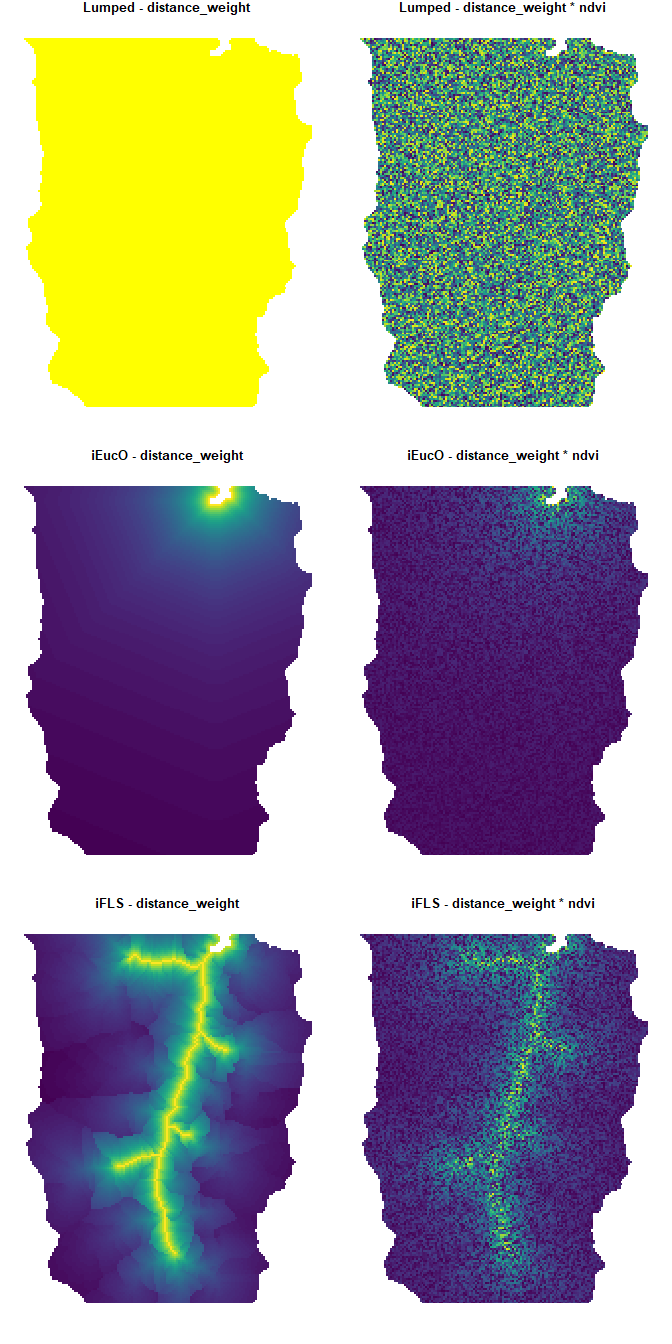
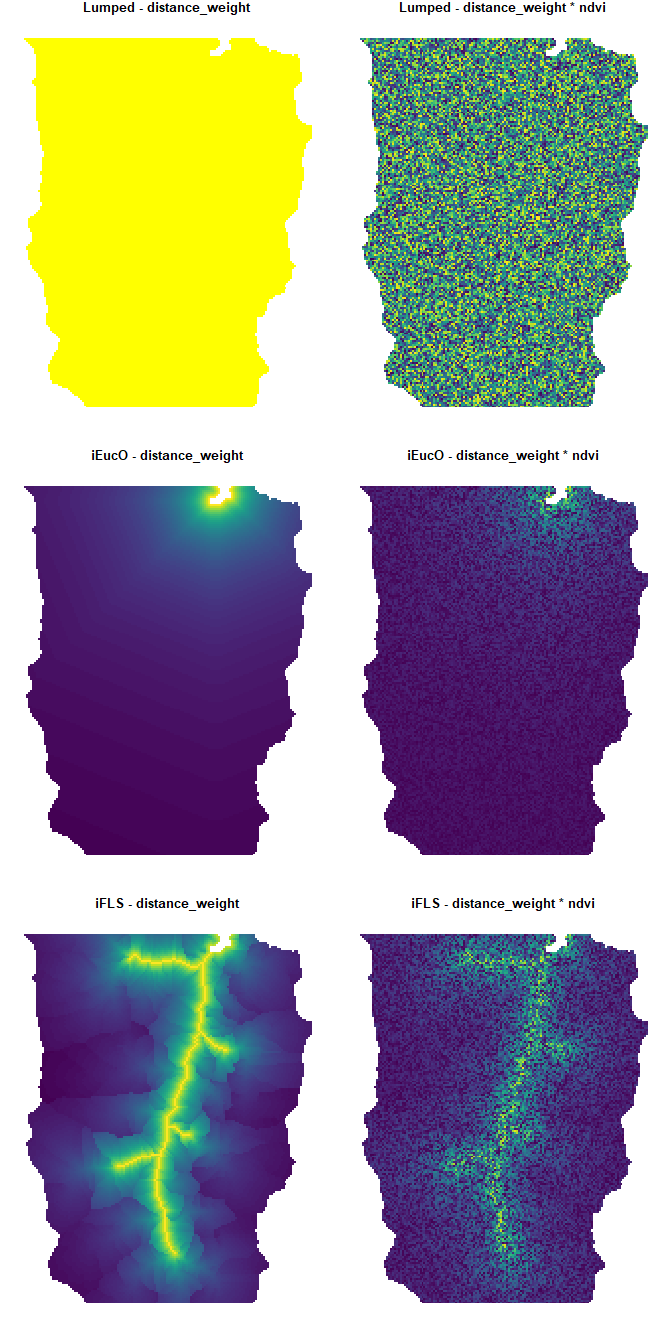
Attempts to fix README 3.5 link

Changed region(s): [[0.5312, 0.0312, 0.9688, 0.3125], [0.5312, 0.6875, 0.9688, 0.9688], [0.5625, 0.3438, 0.9688, 0.5625]]

diff --git a/README.md b/README.md
@@ -16,9 +16,8 @@ hydroweight: Inverse distance-weighted rasters and landscape attributes
       - [3.3 Run `hydroweight()`](#33-run-hydroweight)
       - [3.4 Run `hydroweight()` across a set of
         sites](#34-run-hydroweight-across-a-set-of-sites)
-      - [3.5 Using `hydroweight()` iFLO output as subsequent catchment
-        boundaries for
-        `hydroweight_attributes()`](#35-using-hydroweight-iFLO-output-as-subsequent-catchment-boundaries-for-hydroweight_attributes)
+      - [3.5 Using `iFLO` output as catchment boundaries for
+        `hydroweight_attributes()`](#35-using-iFLO-output-as-catchment-boundaries-for-hydroweight_attributes)
   - [4.0 Inverse distance-weighted rasters using
     `hydroweight_attributes()`](#40-inverse-distance-weighted-attributes-using-hydroweight_attributes)
       - [4.1 Using a numeric raster layer of
@@ -167,7 +166,7 @@ wbt_breach_depressions(
   dem = file.path(hydroweight_dir, "toy_dem.tif"),
   output = file.path(hydroweight_dir, "toy_dem_breached.tif")
 )
-#> [1] "breach_depressions - Elapsed Time (excluding I/O): 0.9s"
+#> [1] "breach_depressions - Elapsed Time (excluding I/O): 0.7s"
 
 ## Generate d8 flow pointer (note: other flow directions are available)
 wbt_d8_pointer(
@@ -182,7 +181,7 @@ wbt_d8_flow_accumulation(
   output = file.path(hydroweight_dir, "toy_dem_breached_accum.tif"),
   out_type = "cells"
 )
-#> [1] "d8_flow_accumulation - Elapsed Time (excluding I/O): 0.65s"
+#> [1] "d8_flow_accumulation - Elapsed Time (excluding I/O): 0.66s"
 
 ## Generate streams with a stream initiation threshold of 2000 cells
 wbt_extract_streams(
@@ -229,7 +228,7 @@ wbt_watershed(
   pour_pts = file.path(hydroweight_dir, "tg_O.tif"),
   output = file.path(hydroweight_dir, "tg_O_catchment.tif")
 )
-#> [1] "watershed - Elapsed Time (excluding I/O): 0.8s"
+#> [1] "watershed - Elapsed Time (excluding I/O): 0.7s"
 
 tg_O_catchment <- raster(file.path(hydroweight_dir, "tg_O_catchment.tif"))
 tg_O_catchment <- rasterToPolygons(tg_O_catchment, dissolve = TRUE)
@@ -340,8 +339,8 @@ hw_test_1 <- hydroweight::hydroweight(
   ),
   inv_function = myinv
 )
-#> Preparing hydroweight layers @ 2021-04-14 16:14:09
-#> Running distance-weighting @ 2021-04-14 16:14:12
+#> Preparing hydroweight layers @ 2021-04-23 10:34:28
+#> Running distance-weighting @ 2021-04-23 10:34:30
 
 ## Resultant structure:
 # length(hw_test_1) ## 1 set of targets and 7 distance-weighted rasters
@@ -512,15 +511,15 @@ hw_test_5 <- foreach(xx = 1:nrow(tg_O_multi), .errorhandling = "pass") %do% {
 
   return(hw_test_xx)
 }
-#> Running hydroweight for site 1 at 2021-04-14 16:14:30
-#> Preparing hydroweight layers @ 2021-04-14 16:14:30
-#> Running distance-weighting @ 2021-04-14 16:14:32
-#> Running hydroweight for site 2 at 2021-04-14 16:14:36
-#> Preparing hydroweight layers @ 2021-04-14 16:14:36
-#> Running distance-weighting @ 2021-04-14 16:14:39
-#> Running hydroweight for site 3 at 2021-04-14 16:14:43
-#> Preparing hydroweight layers @ 2021-04-14 16:14:43
-#> Running distance-weighting @ 2021-04-14 16:14:45
+#> Running hydroweight for site 1 at 2021-04-23 10:34:49
+#> Preparing hydroweight layers @ 2021-04-23 10:34:49
+#> Running distance-weighting @ 2021-04-23 10:34:51
+#> Running hydroweight for site 2 at 2021-04-23 10:34:55
+#> Preparing hydroweight layers @ 2021-04-23 10:34:55
+#> Running distance-weighting @ 2021-04-23 10:34:57
+#> Running hydroweight for site 3 at 2021-04-23 10:35:01
+#> Preparing hydroweight layers @ 2021-04-23 10:35:01
+#> Running distance-weighting @ 2021-04-23 10:35:03
 
 ## Resultant structure:
 ## length(hw_test_5) # 3 sites
@@ -572,7 +571,7 @@ plot(hw_test_5[[3]][[3]], axes = F, legend = F, box = FALSE, col = viridis(101),
 
 [Back to top](#contents)
 
-### 3.5 Using `hydroweight()` iFLO outputs as subsequent catchment boundaries for `hydroweight_attributes()`
+### 3.5 Using `iFLO` output as catchment boundaries for `hydroweight_attributes()`
 
 An advantage of using `hydroweight()` is that an iFLO-derived product
 can be used as a catchment boundary in subsequent operations. iFLO uses
@@ -1082,31 +1081,35 @@ results_agg <- lapply(results, function(x) {
 })
 results_agg <- Reduce(merge, results_agg)
 names(results_agg)
-#>  [1] "Lake"                      "lumped_lulc_prop_var_1_6" 
-#>  [3] "lumped_lulc_prop_var_1_8"  "lumped_lulc_prop_var_1_5" 
-#>  [5] "lumped_lulc_prop_var_1_10" "lumped_lulc_prop_var_2_20"
-#>  [7] "lumped_lulc_prop_var_2_24" "lumped_lulc_prop_var_2_27"
-#>  [9] "iEucO_lulc_prop_var_1_6"   "iEucO_lulc_prop_var_1_8"  
-#> [11] "iEucO_lulc_prop_var_1_5"   "iEucO_lulc_prop_var_1_10" 
-#> [13] "iEucO_lulc_prop_var_2_20"  "iEucO_lulc_prop_var_2_24" 
-#> [15] "iEucO_lulc_prop_var_2_27"  "iFLO_lulc_prop_var_1_6"   
-#> [17] "iFLO_lulc_prop_var_1_8"    "iFLO_lulc_prop_var_1_5"   
-#> [19] "iFLO_lulc_prop_var_1_10"   "iFLO_lulc_prop_var_2_20"  
-#> [21] "iFLO_lulc_prop_var_2_24"   "iFLO_lulc_prop_var_2_27"  
-#> [23] "HAiFLO_lulc_prop_var_1_6"  "HAiFLO_lulc_prop_var_1_8" 
-#> [25] "HAiFLO_lulc_prop_var_1_5"  "HAiFLO_lulc_prop_var_1_10"
-#> [27] "HAiFLO_lulc_prop_var_2_20" "HAiFLO_lulc_prop_var_2_24"
-#> [29] "HAiFLO_lulc_prop_var_2_27" "iEucS_lulc_prop_var_1_6"  
-#> [31] "iEucS_lulc_prop_var_1_8"   "iEucS_lulc_prop_var_1_5"  
-#> [33] "iEucS_lulc_prop_var_1_10"  "iEucS_lulc_prop_var_2_20" 
-#> [35] "iEucS_lulc_prop_var_2_24"  "iEucS_lulc_prop_var_2_27" 
-#> [37] "iFLS_lulc_prop_var_1_6"    "iFLS_lulc_prop_var_1_8"   
-#> [39] "iFLS_lulc_prop_var_1_5"    "iFLS_lulc_prop_var_1_10"  
-#> [41] "iFLS_lulc_prop_var_2_20"   "iFLS_lulc_prop_var_2_24"  
-#> [43] "iFLS_lulc_prop_var_2_27"   "HAiFLS_lulc_prop_var_1_6" 
-#> [45] "HAiFLS_lulc_prop_var_1_8"  "HAiFLS_lulc_prop_var_1_5" 
-#> [47] "HAiFLS_lulc_prop_var_1_10" "HAiFLS_lulc_prop_var_2_20"
-#> [49] "HAiFLS_lulc_prop_var_2_24" "HAiFLS_lulc_prop_var_2_27"
+#>  [1] "Lake"                      "lumped_lulc_prop_var_1_10"
+#>  [3] "lumped_lulc_prop_var_1_8"  "lumped_lulc_prop_var_1_9" 
+#>  [5] "lumped_lulc_prop_var_1_7"  "lumped_lulc_prop_var_2_28"
+#>  [7] "lumped_lulc_prop_var_2_30" "lumped_lulc_prop_var_2_24"
+#>  [9] "lumped_lulc_prop_var_2_21" "iEucO_lulc_prop_var_1_10" 
+#> [11] "iEucO_lulc_prop_var_1_8"   "iEucO_lulc_prop_var_1_9"  
+#> [13] "iEucO_lulc_prop_var_1_7"   "iEucO_lulc_prop_var_2_28" 
+#> [15] "iEucO_lulc_prop_var_2_30"  "iEucO_lulc_prop_var_2_24" 
+#> [17] "iEucO_lulc_prop_var_2_21"  "iFLO_lulc_prop_var_1_10"  
+#> [19] "iFLO_lulc_prop_var_1_8"    "iFLO_lulc_prop_var_1_9"   
+#> [21] "iFLO_lulc_prop_var_1_7"    "iFLO_lulc_prop_var_2_28"  
+#> [23] "iFLO_lulc_prop_var_2_30"   "iFLO_lulc_prop_var_2_24"  
+#> [25] "iFLO_lulc_prop_var_2_21"   "HAiFLO_lulc_prop_var_1_10"
+#> [27] "HAiFLO_lulc_prop_var_1_8"  "HAiFLO_lulc_prop_var_1_9" 
+#> [29] "HAiFLO_lulc_prop_var_1_7"  "HAiFLO_lulc_prop_var_2_28"
+#> [31] "HAiFLO_lulc_prop_var_2_30" "HAiFLO_lulc_prop_var_2_24"
+#> [33] "HAiFLO_lulc_prop_var_2_21" "iEucS_lulc_prop_var_1_10" 
+#> [35] "iEucS_lulc_prop_var_1_8"   "iEucS_lulc_prop_var_1_9"  
+#> [37] "iEucS_lulc_prop_var_1_7"   "iEucS_lulc_prop_var_2_28" 
+#> [39] "iEucS_lulc_prop_var_2_30"  "iEucS_lulc_prop_var_2_24" 
+#> [41] "iEucS_lulc_prop_var_2_21"  "iFLS_lulc_prop_var_1_10"  
+#> [43] "iFLS_lulc_prop_var_1_8"    "iFLS_lulc_prop_var_1_9"   
+#> [45] "iFLS_lulc_prop_var_1_7"    "iFLS_lulc_prop_var_2_28"  
+#> [47] "iFLS_lulc_prop_var_2_30"   "iFLS_lulc_prop_var_2_24"  
+#> [49] "iFLS_lulc_prop_var_2_21"   "HAiFLS_lulc_prop_var_1_10"
+#> [51] "HAiFLS_lulc_prop_var_1_8"  "HAiFLS_lulc_prop_var_1_9" 
+#> [53] "HAiFLS_lulc_prop_var_1_7"  "HAiFLS_lulc_prop_var_2_28"
+#> [55] "HAiFLS_lulc_prop_var_2_30" "HAiFLS_lulc_prop_var_2_24"
+#> [57] "HAiFLS_lulc_prop_var_2_21"
 ```
 
 [Back to top](#contents)
@@ -1268,9 +1271,9 @@ length(sites_attributes_products[[1]][[1]][[1]]) # List of results for one site,
 #> [1] 3
 (sites_attributes_products[[1]][[1]][[1]][[1]]) # statistics table
 #>   Site lumped_ndvi_distwtd_mean lumped_ndvi_distwtd_sd lumped_ndvi_mean
-#> 1    1                0.5015506              0.2877392        0.5015506
+#> 1    1                0.4972042                0.28867        0.4972042
 #>   lumped_ndvi_sd lumped_ndvi_min lumped_ndvi_max lumped_ndvi_pixel_count
-#> 1      0.2877392    0.0001850426       0.9999741                   21669
+#> 1        0.28867    9.326497e-06       0.9999281                   21669
 (sites_attributes_products[[1]][[1]][[1]][[2]]) # loi clipped by roi
 #> class      : RasterLayer 
 #> dimensions : 187, 236, 44132  (nrow, ncol, ncell)
@@ -1279,7 +1282,7 @@ length(sites_attributes_products[[1]][[1]][[1]]) # List of results for one site,
 #> crs        : +proj=lcc +lat_0=0 +lon_0=-85 +lat_1=44.5 +lat_2=53.5 +x_0=930000 +y_0=6430000 +datum=NAD83 +units=m +no_defs 
 #> source     : memory
 #> names      : ndvi 
-#> values     : 0.0001850426, 0.9999741  (min, max)
+#> values     : 9.326497e-06, 0.9999281  (min, max)
 (sites_attributes_products[[1]][[1]][[1]][[3]]) # distance-weighted raster clipped by roi
 #> class      : RasterLayer 
 #> dimensions : 187, 236, 44132  (nrow, ncol, ncell)
@@ -1335,9 +1338,9 @@ distwtd_cols <- grep("distwtd", names(sites_attributes_df))
 unique_cols <- unique(c(1, lumped_cols, distwtd_cols))
 unique_cols
 #>  [1]   1   2   3   4   5   6   7   8   9  10  11  12  13  14  15  16  17  18  19
-#> [20]  20  21  22  23  24  25  26  27  28  29  30  31  32  33  34  35  45  46  47
-#> [39]  48  66  67  77  78  79  80  98  99 109 110 111 112 130 131 141 142 143 144
-#> [58] 162 163 173 174 175 176 194 195 205 206 207 208
+#> [20]  20  21  22  23  24  25  26  27  28  29  30  31  32  33  34  35  36  46  47
+#> [39]  48  49  68  69  79  80  81  82 101 102 112 113 114 115 134 135 145 146 147
+#> [58] 148 167 168 178 179 180 181 200 201 211 212 213 214
 
 sites_attributes_df <- sites_attributes_df[, unique_cols]
 
@@ -1356,28 +1359,28 @@ colnames(sites_attributes_df)
 #> [21] "lumped_lulc_var_1_min"          "lumped_lulc_var_2_min"         
 #> [23] "lumped_lulc_var_1_max"          "lumped_lulc_var_2_max"         
 #> [25] "lumped_lulc_var_1_pixel_count"  "lumped_lulc_var_2_pixel_count" 
-#> [27] "lumped_lulc_prop_var_1_6"       "lumped_lulc_prop_var_1_8"      
-#> [29] "lumped_lulc_prop_var_1_5"       "lumped_lulc_prop_var_1_10"     
-#> [31] "lumped_lulc_prop_var_2_20"      "lumped_lulc_prop_var_2_24"     
-#> [33] "lumped_lulc_prop_var_2_27"      "iEucO_ndvi_distwtd_mean"       
-#> [35] "iEucO_ndvi_distwtd_sd"          "iEucO_lulc_var_1_distwtd_mean" 
-#> [37] "iEucO_lulc_var_2_distwtd_mean"  "iEucO_lulc_var_1_distwtd_sd"   
-#> [39] "iEucO_lulc_var_2_distwtd_sd"    "iFLO_ndvi_distwtd_mean"        
-#> [41] "iFLO_ndvi_distwtd_sd"           "iFLO_lulc_var_1_distwtd_mean"  
-#> [43] "iFLO_lulc_var_2_distwtd_mean"   "iFLO_lulc_var_1_distwtd_sd"    
-#> [45] "iFLO_lulc_var_2_distwtd_sd"     "HAiFLO_ndvi_distwtd_mean"      
-#> [47] "HAiFLO_ndvi_distwtd_sd"         "HAiFLO_lulc_var_1_distwtd_mean"
-#> [49] "HAiFLO_lulc_var_2_distwtd_mean" "HAiFLO_lulc_var_1_distwtd_sd"  
-#> [51] "HAiFLO_lulc_var_2_distwtd_sd"   "iEucS_ndvi_distwtd_mean"       
-#> [53] "iEucS_ndvi_distwtd_sd"          "iEucS_lulc_var_1_distwtd_mean" 
-#> [55] "iEucS_lulc_var_2_distwtd_mean"  "iEucS_lulc_var_1_distwtd_sd"   
-#> [57] "iEucS_lulc_var_2_distwtd_sd"    "iFLS_ndvi_distwtd_mean"        
-#> [59] "iFLS_ndvi_distwtd_sd"           "iFLS_lulc_var_1_distwtd_mean"  
-#> [61] "iFLS_lulc_var_2_distwtd_mean"   "iFLS_lulc_var_1_distwtd_sd"    
-#> [63] "iFLS_lulc_var_2_distwtd_sd"     "HAiFLS_ndvi_distwtd_mean"      
-#> [65] "HAiFLS_ndvi_distwtd_sd"         "HAiFLS_lulc_var_1_distwtd_mean"
-#> [67] "HAiFLS_lulc_var_2_distwtd_mean" "HAiFLS_lulc_var_1_distwtd_sd"  
-#> [69] "HAiFLS_lulc_var_2_distwtd_sd"
+#> [27] "lumped_lulc_prop_var_1_10"      "lumped_lulc_prop_var_1_8"      
+#> [29] "lumped_lulc_prop_var_1_9"       "lumped_lulc_prop_var_1_7"      
+#> [31] "lumped_lulc_prop_var_2_28"      "lumped_lulc_prop_var_2_30"     
+#> [33] "lumped_lulc_prop_var_2_24"      "lumped_lulc_prop_var_2_21"     
+#> [35] "iEucO_ndvi_distwtd_mean"        "iEucO_ndvi_distwtd_sd"         
+#> [37] "iEucO_lulc_var_1_distwtd_mean"  "iEucO_lulc_var_2_distwtd_mean" 
+#> [39] "iEucO_lulc_var_1_distwtd_sd"    "iEucO_lulc_var_2_distwtd_sd"   
+#> [41] "iFLO_ndvi_distwtd_mean"         "iFLO_ndvi_distwtd_sd"          
+#> [43] "iFLO_lulc_var_1_distwtd_mean"   "iFLO_lulc_var_2_distwtd_mean"  
+#> [45] "iFLO_lulc_var_1_distwtd_sd"     "iFLO_lulc_var_2_distwtd_sd"    
+#> [47] "HAiFLO_ndvi_distwtd_mean"       "HAiFLO_ndvi_distwtd_sd"        
+#> [49] "HAiFLO_lulc_var_1_distwtd_mean" "HAiFLO_lulc_var_2_distwtd_mean"
+#> [51] "HAiFLO_lulc_var_1_distwtd_sd"   "HAiFLO_lulc_var_2_distwtd_sd"  
+#> [53] "iEucS_ndvi_distwtd_mean"        "iEucS_ndvi_distwtd_sd"         
+#> [55] "iEucS_lulc_var_1_distwtd_mean"  "iEucS_lulc_var_2_distwtd_mean" 
+#> [57] "iEucS_lulc_var_1_distwtd_sd"    "iEucS_lulc_var_2_distwtd_sd"   
+#> [59] "iFLS_ndvi_distwtd_mean"         "iFLS_ndvi_distwtd_sd"          
+#> [61] "iFLS_lulc_var_1_distwtd_mean"   "iFLS_lulc_var_2_distwtd_mean"  
+#> [63] "iFLS_lulc_var_1_distwtd_sd"     "iFLS_lulc_var_2_distwtd_sd"    
+#> [65] "HAiFLS_ndvi_distwtd_mean"       "HAiFLS_ndvi_distwtd_sd"        
+#> [67] "HAiFLS_lulc_var_1_distwtd_mean" "HAiFLS_lulc_var_2_distwtd_mean"
+#> [69] "HAiFLS_lulc_var_1_distwtd_sd"   "HAiFLS_lulc_var_2_distwtd_sd"
 ```
 
 Now - like any good environmental scientist - you have more variables
@@ -1385,7 +1388,33 @@ and/or metrics than sites.
 
 [Back to top](#contents)
 
-## 6.0 References
+## 6.0 Future Plans
+
+This package was implemented to mostly serve our purposes and is
+functional enough. There is probably lots of room for improvement that
+we don’t see yet.
+
+The core functions should stay the same but we would like to:
+
+1.  Optimize for speed based on user/my own feedback.
+2.  Potentially use less in-memory `raster` functions in favour of
+    `WhiteboxTools` functions.
+3.  Work on moving multi-site/multi-layer capability into their own
+    functions based on feedback.
+4.  Implement tidier data handling and results structures.
+5.  … as things come up.
+
+[Back to top](#contents)
+
+## 7.0 Acknowledgements
+
+Thank you to for early review/testing (alphabetical order):
+
+Darren McCormick, Courtney Mondoux, Emily Smenderovac
+
+[Back to top](#contents)
+
+## 8.0 References
 
 Kielstra, B. W., Chau, J., & Richardson, J. S. (2019). Measuring
 function and structure of urban headwater streams with citizen
@@ -1413,27 +1442,3 @@ Wu Q. (2020). whitebox: ‘WhiteboxTools’ R Frontend. R package version
 1.4.0. <https://github.com/giswqs/whiteboxR>
 
 [Back to top](#contents)
-
-## 7.0 Future Plans
-
-This package was implemented to mostly serve our purposes and is
-functional enough. There is probably lots of room for improvement that
-we don’t see yet.
-
-The core functions should stay the same but we would like to:
-
-1.  Optimize for speed based on user/my own feedback.
-2.  Potentially use less in-memory `raster` functions in favour of
-    `WhiteboxTools` functions.
-3.  Work on moving multi-site/multi-layer capability into their own
-    functions based on feedback.
-4.  Implement tidier data handling and results structures.
-5.  … as things come up.
-
-[Back to top](#contents)
-
-## 8.0 Acknowledgements
-
-Thank you to for early review/testing (alphabetical order):
-
-Darren McCormick, Courtney Mondoux, Emily Smenderovac
